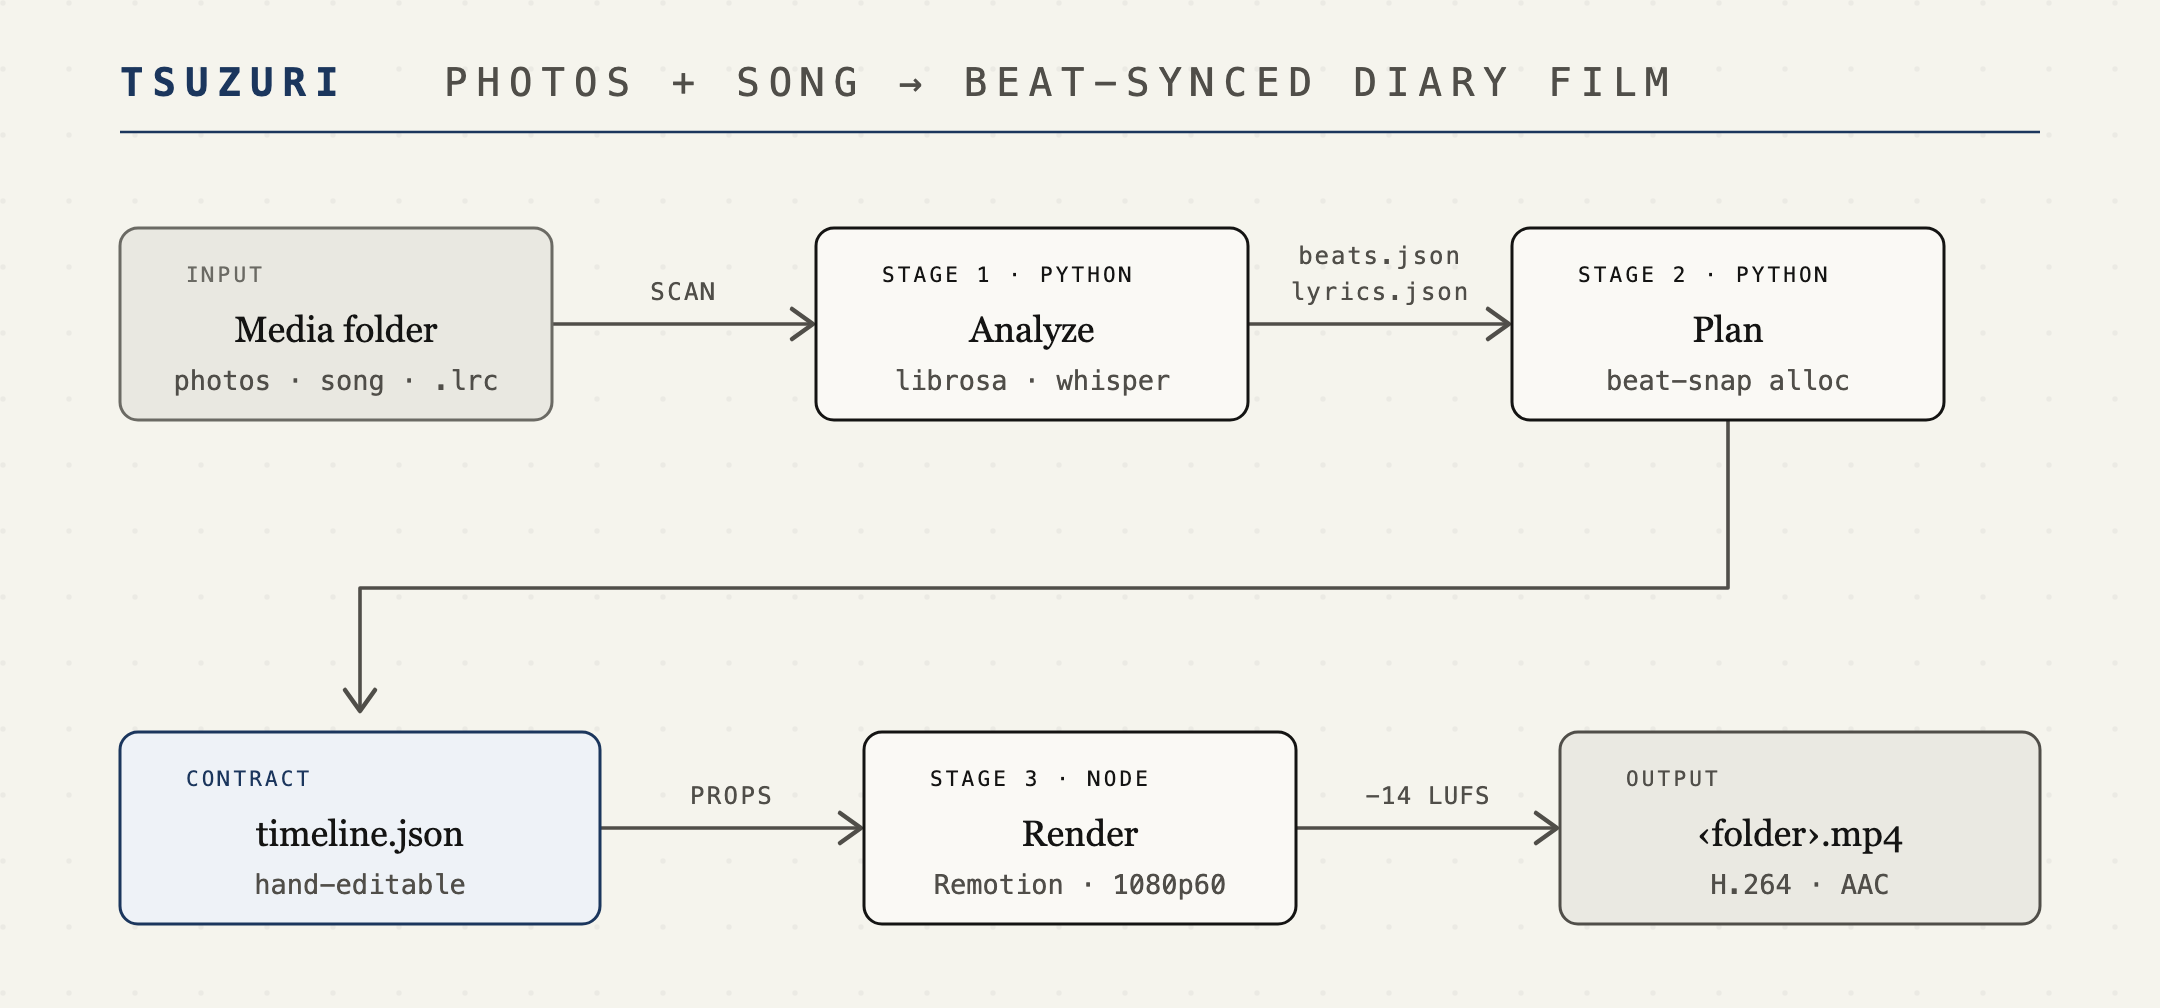
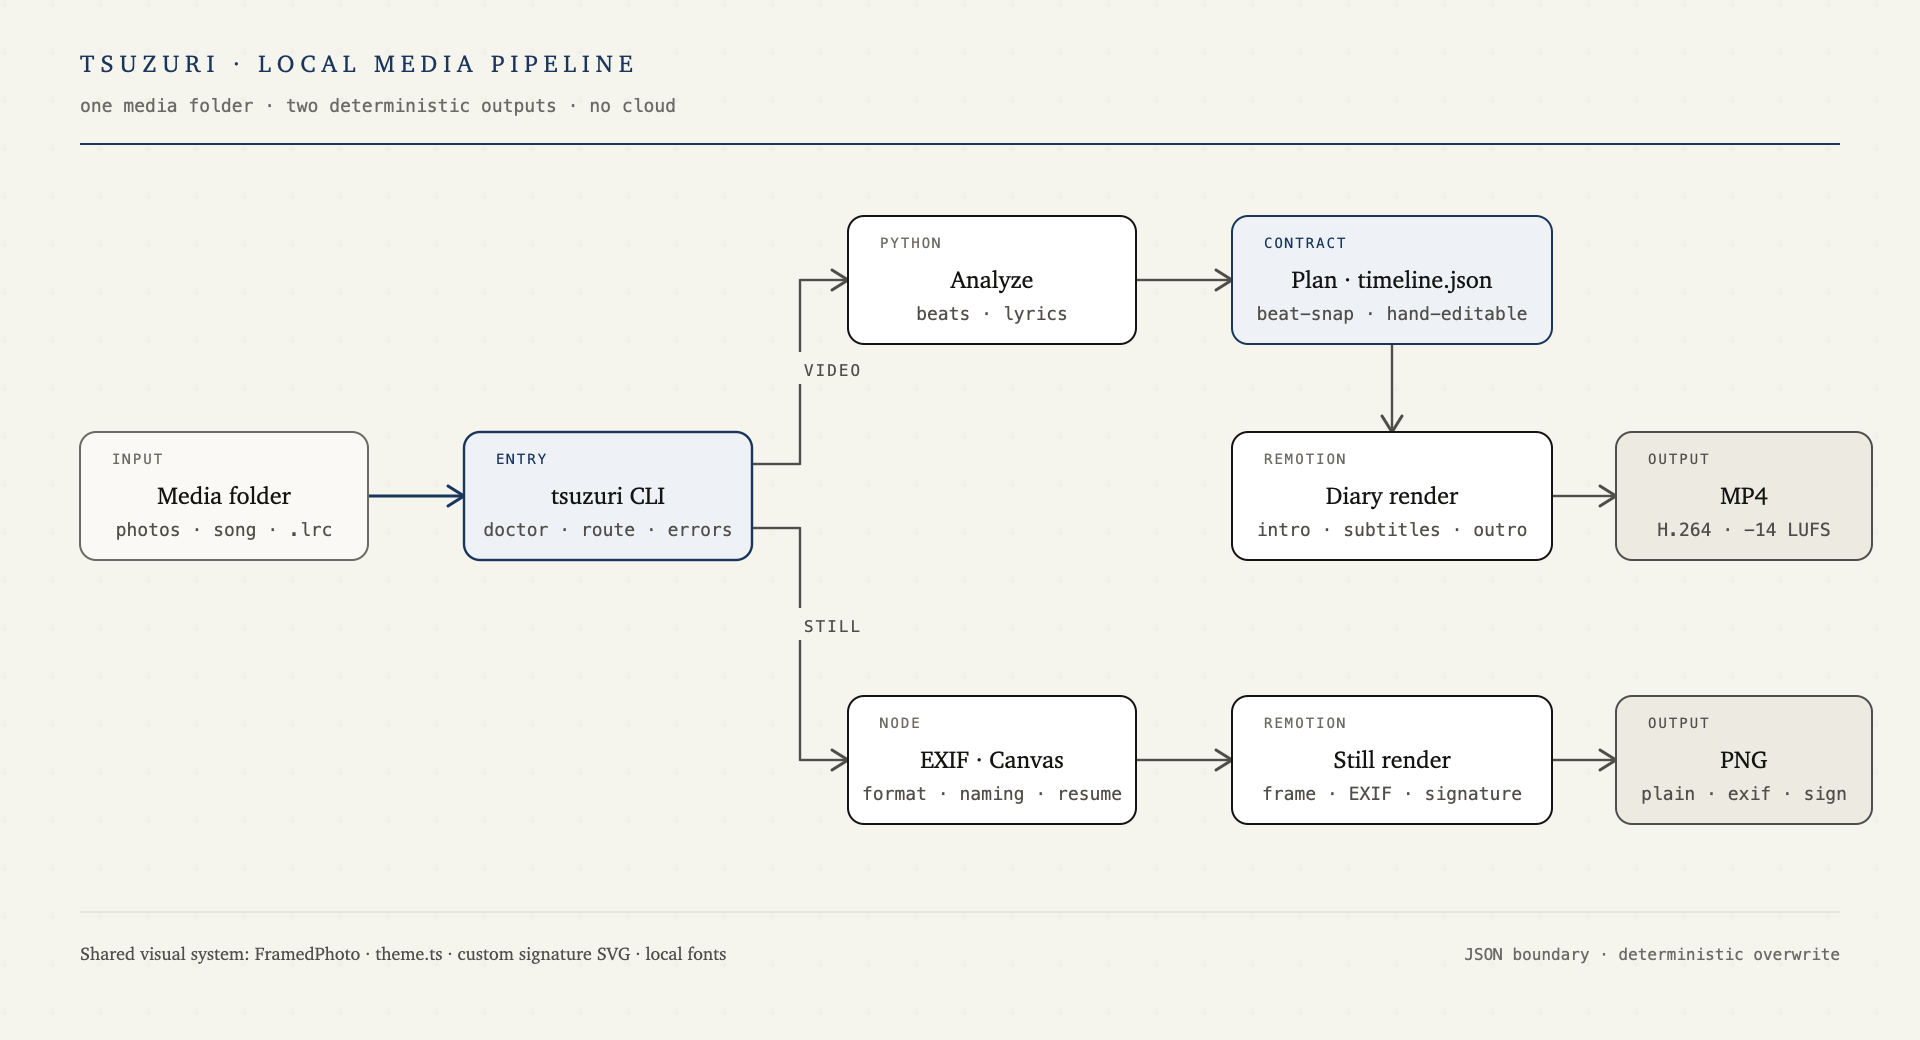
docs: README 与功能对齐,新增 still 案例图,架构图更新为双管线 PNG
- 命令速查补 --sign / --skip-existing,still 变体命名与覆盖语义入正文
- 新增两张 still 案例图(落款 / EXIF+落款),FAQ 补 TSUZURI_DEBUG
- config.md 明示配置须平铺(still 轻量读取器与 tomllib 镜像约束)
- 三份方案文档标注实施状态与最终口径,status 更新近期落地

diff --git a/docs/still-polish-and-error-ux-plan.md b/docs/still-polish-and-error-ux-plan.md
@@ -1,6 +1,6 @@
 # 执行方案:报错文案人性化 + still 命名/覆盖语义 + still 签名与 EXIF 展示优化
 
-> 状态:方案草案,未开工。承接 branding-and-still-export-plan.md 的实现,
+> 状态:已实施(2026-07-12)。承接 branding-and-still-export-plan.md 的实现,
 > 含该实现 code review 的待修项。不含代码,只定方案与步骤。
 
 ## 零、Review 待修项(来自本轮 code review)
@@ -14,12 +14,12 @@
 | R3 | `cli/still.mjs` 输出命名 | ①普通版与 `--exif` 版同名互相覆盖;②同名不同扩展名的源图(`a.jpg` + `a.webp`)在批量导出时静默互相覆盖 | 见"第二部分"命名方案 |
 | R4 | `cli/still.mjs` `-o out.jpg` | 单文件模式传非 .png 扩展名被静默改写成 `out.jpg.png` | 直接报错:"still 只导出 PNG,-o 请以 .png 结尾或传目录" |
 | R5 | `cli/still.mjs` `loadStillCanvasConfig` | 手写 flat-TOML 解析与 `plan.py` 的 tomllib 是两套解析器,`[table]`/多行字符串会静默读错(当前 config.md 只有平铺键,风险休眠) | 加镜像注释互指;config.md 明示"配置须平铺";v2 再考虑统一 |
-| R6 | `cli/still.mjs` 批量循环 | 每张都调一次 `selectComposition`,但全部 job 的画布元数据相同 | 提到循环外调一次(批量提速) |
+| R6 | `cli/still.mjs` 批量循环 | 每张都调一次 `selectComposition`,但全部 job 的画布元数据相同 | 提到循环外调一次;每次 render 必须用当前 `inputProps` 更新 `composition.props`,否则首次的 `exif:null` 会覆盖动态 EXIF |
 | R7 | `cli/still.mjs` | 进度条活跃期间用 `term.detail` 打印输出路径,可能与进度行交错 | 改用 `progress.println`(render.mjs 已有先例) |
 
 Review 通过项(不动):hooks 顺序安全;老 timeline 无 `branding` 字段的向后
 兼容;`intro=false` 的 plan/渲染两端联动与测试;`FramedPhoto` 抽取;
-exif 格式化函数与测试;三套验证(cli 39 test / typecheck / analyzer 75 test)全绿。
+exif 格式化函数与测试;最终验证(cli 46 test / typecheck / analyzer 75 test)全绿。
 
 ---
 
@@ -121,13 +121,13 @@ EXIF 开了都不会刷新,同一类 bug。
 
 - **默认永远覆盖**——still 是显式动作,"我要现在这份视觉的结果",确定性
   高于省时间;单张秒级,成本可接受。
-- **变体分离命名**,让"普通版"和"EXIF 版"根本不竞争同一个文件:
-  - 无 exif:`IMG_001.png`
-  - 带 exif:`IMG_001.exif.png`
-  - (将来带签名可归入同名不加后缀——签名属于"这份导出的装饰",不是另一
-    个变体;见第三部分)
-- **同名冲突消歧**:resolveJobs 后按 outPath 分组,冲突的 job 自动改为带原
-  扩展名的 `a.webp.png` 并 `term.warn` 一行;不报错中断(批量导出体验优先)。
+- **变体分离命名**,扩展名始终只有 `.png`,四种结果可在同一目录共存:
+  - 普通:`IMG_001.png`
+  - EXIF:`IMG_001-exif.png`
+  - 签名:`IMG_001-sign.png`
+  - EXIF + 签名:`IMG_001-exif-sign.png`
+- **同名冲突消歧**:resolveJobs 后按 outPath 分组,冲突的 job 自动把原扩展名
+  并入 basename,如 `a-jpg.png` / `a-webp.png`,并 `term.warn` 一行;不报错中断。
 - **`--skip-existing` 显式选项**(批量续跑场景):明示跳过并输出
   `└ 跳过 N 张已存在(--skip-existing)`;默认关。陈旧风险由"显式打开 +
   明示计数"兜住——用户主动要的跳过,和静默缓存不是一回事。
@@ -139,8 +139,8 @@ EXIF 开了都不会刷新,同一类 bug。
    (jpg/webp 同名、exif 与普通并存、`-o out.jpg` 报错)。
 7. **`--skip-existing`**:options.mjs 解析 + still.mjs 跳过逻辑 + 计数输出;
    补测试。
-8. **顺手修 R6/R7**:`selectComposition` 提到循环外;路径打印改
-   `progress.println`。
+8. **顺手修 R6/R7**:`selectComposition` 提到循环外,render 时以当前 job 的
+   `inputProps` 覆盖 `composition.props`;路径打印改 `progress.println`。
 
 ---
 
@@ -166,7 +166,7 @@ alias 里带上即可,v2 若呼声高再考虑 toml 键)。
 
 推荐参数(1080p 基准,进 `theme.ts` STILL 常量,Studio 里微调):photo_scale
 0.8 时下带高 108px,签名字形高取 **~56px**、垂直居中于下带;颜色用 INTRO
-的墨色但透明度降到 **~0.5**(落款应比作品轻)。注意竖图时下带不变(照片按
+的墨色 `#37332D`,实测后透明度定为 **0.65**(清晰但仍低于正文层级)。注意竖图时下带不变(照片按
 高度顶满),横图很宽时照片按宽度限制、下带会变高——签名仍锚定"照片下缘
 到画布底"的实际间隙居中,而不是固定坐标。
 
@@ -210,11 +210,11 @@ ISO 200
 
 - **a. camera / lens / params 至少一项存在** → 正常出展签,缺行省略
   (现状已如此)。
-- **b. 只剩 datetime** → **不出侧面板**,按无 EXIF 布局导出,并 warn:
-  `└ IMG_x.jpg: EXIF 只有时间字段,不足以出展签,已按无信息布局导出`。
+- **b. 只剩 datetime** → **跳过 EXIF 变体导出**,并 warn:
+  `└ IMG_x.jpg: EXIF 信息不足,已跳过导出`。EXIF 命令不生成名不副实的普通布局文件。
   孤零零一行时间的面板视觉是破的;且转存图的时间常是"保存时间"而非
   拍摄时间,展示反而误导。
-- **c. 全空** → 现状(warn + 回退)已正确,文案统一成 b 的句式。
+- **c. 全空** → 同 b,提示并跳过。
 - **明确不做**:不用文件 mtime 兜底"拍摄时间"——微信保存时间没有意义,
   宁缺毋滥。
 
@@ -250,8 +250,8 @@ ISO 200
 - 报错文案手工触发矩阵:临时改 PATH 去掉 uv / ffmpeg 各跑一次;
   `tsuzuri photo.jpg`;`tsuzuri still x.txt`;`-o out.jpg`;删 beats.json 后
   直接跑 plan。
-- still 语义:同一张图 ①普通 ②--exif ③再普通,确认三次后 `IMG.png` 与
-  `IMG.exif.png` 并存且内容对应;`a.jpg`+`a.webp` 批量冲突消歧 warn;
+- still 语义:同一张图四种组合导出后 `IMG.png` / `IMG-exif.png` /
+  `IMG-sign.png` / `IMG-exif-sign.png` 并存且内容对应;`a.jpg`+`a.webp` 批量冲突消歧 warn;
   `--skip-existing` 计数正确。
 - 视觉:Studio 目检四种组合(±exif × ±sign)+ 竖图/横图/全景各一张;
   微信转存图(datetime-only)走 b 分支。

diff --git a/README.en.md b/README.en.md
@@ -44,7 +44,7 @@ Drop a `tsuzuri.toml` in the folder to override defaults (resolution / fps / tra
 
 ## How it works
 
-![tsuzuri pipeline](docs/assets/architecture.svg)
+![tsuzuri dual pipeline: video and still outputs share one local visual system](docs/assets/architecture.png)
 
 Analyze / Plan / Render are three independent stages that only talk through JSON files under `metadata/`. `timeline.json` is the hand-editable contract (schema: [docs/specs/timeline-schema.md](docs/specs/timeline-schema.md)); rerunning with unchanged material skips analysis and renders your edited timeline directly.
 
@@ -74,6 +74,8 @@ node cli/tsuzuri.mjs ./osaka-trip               # render video
 node cli/tsuzuri.mjs ./osaka-trip -o out.mp4    # custom output path
 node cli/tsuzuri.mjs still ./photo.jpg          # export a still PNG (same look as the video, default 2× supersample)
 node cli/tsuzuri.mjs still ./photos --exif      # batch + EXIF caption panel
+node cli/tsuzuri.mjs still ./photos --sign      # add the same signature used by the video intro
+node cli/tsuzuri.mjs still ./photos --skip-existing # explicitly resume a batch
 node cli/tsuzuri.mjs doctor                     # dependency preflight with fix hints
 node cli/tsuzuri.mjs lyrics ./osaka-trip        # preview lyric recognition before rendering
 node cli/tsuzuri.mjs help                       # usage (same as -h / --help)
@@ -81,7 +83,13 @@ node cli/tsuzuri.mjs help                       # usage (same as -h / --help)
 
 `lyrics` lists every line with timestamps and confidence; lines below the render threshold (0.6) are flagged — check recognition quality before spending minutes on a render.
 
-`still` is a pure Node pipeline (no audio analysis). It writes lossless PNG; default `--scale 2` (3840×2160 supersample). Optional `--exif` adds camera / lens / exposure / datetime (never GPS).
+`still` is a pure Node pipeline (no audio analysis). It writes lossless PNG; default `--scale 2` (3840×2160 supersample). Its four variants are named `IMG.png` / `IMG-exif.png` / `IMG-sign.png` / `IMG-exif-sign.png`, so they can coexist in one directory. Photos without enough EXIF are reported and skipped for EXIF variants. Existing files are overwritten by default; `--skip-existing` is an explicit batch-resume mode.
+
+### Still cases
+
+| No EXIF · signature below photo | EXIF · signature inside caption panel |
+| --- | --- |
+| ![Without EXIF, the signature sits below the photo](docs/assets/still-sign-case.png) | ![With EXIF, the signature sits at the bottom of the caption panel](docs/assets/still-exif-sign-case.png) |
 
 ## 100% local
 
@@ -98,6 +106,8 @@ No cloud, no API keys. The Whisper backend matches your hardware automatically (
 **Weak vocals, bad recognition?** `cd analyzer && uv sync --extra separation` installs demucs; on low confidence the analyzer separates vocals and retries once automatically.
 
 **Rendering is slow, fans are loud?** Expected: frame-by-frame 60fps rendering plus H.264 encoding is CPU-bound. If 30fps is acceptable, set `fps = 30` in `tsuzuri.toml` — roughly halves the time.
+
+**Need the full stack trace?** Rerun with `TSUZURI_DEBUG=1`; for missing dependencies, start with `node cli/tsuzuri.mjs doctor`.
 
 **Different Whisper model?** Set `TSUZURI_WHISPER_MODEL=tiny|small|medium` (or a local model directory path) before running.
 

diff --git a/README.md b/README.md
@@ -46,7 +46,7 @@ node cli/tsuzuri.mjs ./osaka-trip
 
 ## How it works / 工作原理
 
-![tsuzuri pipeline](docs/assets/architecture.svg)
+![tsuzuri 双管线架构:视频与 still 共用本地视觉系统](docs/assets/architecture.png)
 
 Analyze / Plan / Render 三个阶段彼此独立,只通过 `metadata/` 下的 JSON 文件衔接;`timeline.json` 是可手改的契约(schema 见 [docs/specs/timeline-schema.md](docs/specs/timeline-schema.md)),素材未变时重跑会跳过分析、直接按改后的时间线渲染。
 
@@ -76,6 +76,8 @@ node cli/tsuzuri.mjs ./osaka-trip               # 渲染成片(日常命令)
 node cli/tsuzuri.mjs ./osaka-trip -o out.mp4    # 自定义输出路径
 node cli/tsuzuri.mjs still ./photo.jpg          # 按视频同款视觉导出 PNG(默认 2× 超采样)
 node cli/tsuzuri.mjs still ./photos --exif      # 批量 + EXIF 展签面板
+node cli/tsuzuri.mjs still ./photos --sign      # 加入 toml 同源签名落款
+node cli/tsuzuri.mjs still ./photos --skip-existing # 批量续跑,显式跳过已存在文件
 node cli/tsuzuri.mjs doctor                     # 预检依赖,失败项附修复命令
 node cli/tsuzuri.mjs lyrics ./osaka-trip        # 渲染前预览歌词识别结果
 node cli/tsuzuri.mjs help                       # 查看用法(同 -h / --help)
@@ -83,7 +85,13 @@ node cli/tsuzuri.mjs help                       # 查看用法(同 -h / --help)
 
 `lyrics` 会列出每行的时间戳与置信度,低于渲染阈值(0.6)的行会标出——先确认识别质量,再花时间渲染。
 
-`still` 是纯 Node 管道(不跑音频分析),输出无损 PNG;默认 `--scale 2`(3840×2160 超采样),可选 `--exif` 叠加相机/镜头/参数/时间(不含 GPS)。单张默认写到照片旁 `output/stills/`,文件夹则批量导出。
+`still` 是纯 Node 管道(不跑音频分析),输出无损 PNG;默认 `--scale 2`(3840×2160 超采样)。四种变体分别命名为 `IMG.png` / `IMG-exif.png` / `IMG-sign.png` / `IMG-exif-sign.png`,可在同一目录共存。没有足够 EXIF 的照片会提示并跳过 EXIF 变体。批量续跑可显式使用 `--skip-existing`;默认总是覆盖已有同变体文件。
+
+### Still cases / 静态作品案例
+
+| 无 EXIF · 照片下方落款 | EXIF · 展签面板内落款 |
+| --- | --- |
+| ![无 EXIF 时签名位于照片下方留白](docs/assets/still-sign-case.png) | ![有 EXIF 时签名位于展签面板底部](docs/assets/still-exif-sign-case.png) |
 
 ## 100% local / 完全本地
 
@@ -100,6 +108,8 @@ node cli/tsuzuri.mjs help                       # 查看用法(同 -h / --help)
 **人声弱、识别很差?** `cd analyzer && uv sync --extra separation` 安装 demucs,低置信度时会自动人声分离后重识别一次。
 
 **渲染慢、风扇响?** 正常:60fps 逐帧渲染 + H.264 编码本就吃 CPU。接受 30fps 的话在 `tsuzuri.toml` 设 `fps = 30`,耗时近似减半。
+
+**需要完整错误栈排查?** 设置 `TSUZURI_DEBUG=1` 后重跑;依赖问题先运行 `node cli/tsuzuri.mjs doctor`。
 
 **想换 Whisper 模型?** 运行前设 `TSUZURI_WHISPER_MODEL=tiny|small|medium`(或本地模型目录路径)。
 

diff --git a/docs/tsuzuri-status.md b/docs/tsuzuri-status.md
@@ -16,8 +16,8 @@
 
 ## 近期落地(2026-07-12)
 
-- **片头/片尾个性化(配置驱动)**:`tsuzuri.toml` 新增 `outro_text` / `signature` / `intro` → `plan.py` 写入 `meta.branding` → 渲染器消费。谢幕语抽为 `Outro.tsx`;自定义签名 SVG 运行时 `getTotalLength()` 测长(delayRender),多 path 并行书写,默认路径仍用常量 2109.58 保证逐帧一致;`intro=false` 时 plan 不预留片头、渲染器不挂 Intro。
-- **`tsuzuri still`**:纯 Node + `renderStill` PNG,默认 `--scale 2`;可选 `--exif`(exifr 在 CLI 格式化四行)。`FramedPhoto` 从 Photo 抽出,与 Still composition 共用。方案见 [branding-and-still-export-plan.md](./branding-and-still-export-plan.md)。
+- **片头/片尾个性化(配置驱动)**:`tsuzuri.toml` 新增 `outro_text` / `signature` / `intro`;plan 只透传显式配置,展示默认值单一来源留在渲染器。自定义签名 SVG 运行时测长,cleanup 会释放 pending delayRender handle;`intro=false` 时 plan 不预留片头、渲染器不挂 Intro。
+- **`tsuzuri still`**:纯 Node + `renderStill` PNG,默认 `--scale 2`;支持 `--exif` 四行展签、`--sign` 落款和显式 `--skip-existing`。四种变体以 `-exif` / `-sign` 文件名段分离,扩展名始终为 `.png`;批量同 stem 自动把源扩展名并入 basename 消歧。方案见 [still-polish-and-error-ux-plan.md](./still-polish-and-error-ux-plan.md)。
 
 ## 关键决策(计划文档之外新增)
 
@@ -40,7 +40,7 @@
 - Windows:代码层面兼容(faster-whisper CPU/CUDA 路径、npx 坑已修 9e09165),未真机实测;最可能的坑:CJK/空格路径、demucs 的 torch 安装。
 - M5 剩余:快闪/裁剪阈值用真实素材调优;examples 目前只有生成的 fixture,可补一组真实示例照片 + 无版权音乐。
 - Whisper 模型可用 `TSUZURI_WHISPER_MODEL=tiny|small|medium` 临时覆盖(调试用)。
-- Review 遗留(advisory,未修):EXIF 排序是全有全无策略;信息条(INFO_BAR)常量已定义但渲染未实现(默认关,M6);HF 连通性探测用 urllib,SOCKS-only 环境会误切镜像(镜像可用,无害)。
+- Review 遗留(advisory,未修):EXIF 排序是全有全无策略;信息条(INFO_BAR)常量已定义但视频渲染未实现(默认关,M6);HF 连通性探测用 urllib,SOCKS-only 环境会误切镜像(镜像可用,无害)。
 - beat_alloc 约束优先级:所有间隔约束 > 切换点数量,塞不下时丢弃尾部照片(2026-07-10 review 修复了回退分支违反 min_gap 的 bug)。
 - 歌词长段按词级时间戳拆行(上限 30 全角等效),断点优先乐句边界:词间停顿 ≥0.3s / 下一词大写开头(排除恒大写 "I")/ 标点收尾;渲染端另有超宽缩字号兜底。
 - 成片响度归一:CLI 渲染后用 ffmpeg loudnorm 两遍法(linear=true 纯增益)统一到 -14 LUFS / TP -1.5dB,源已达标(±1 LU 且 TP ≤ -1)则跳过;视频流 copy 不重编码。
@@ -54,9 +54,9 @@
 - 本机环境有 SOCKS 代理,已加 `httpx[socks]` 依赖(顺带惠及代理用户)。
 - 视觉规格第五次修订(2026-07-11):照片阴影从暖棕改为中性冷黑三层(`rgba(10,12,16,…)`,α 0.32/0.28/0.18,垂直入光),白底上不再偏黄;描边同步中性化。渲染质量:中间帧 `jpegQuality: 100`、输出 `crf: 16`(此前走 Remotion 默认 80/18);音频仍为 AAC 320k 默认。
 - CLI 子命令(2026-07-11):新增 `tsuzuri doctor`(秒级预检 node/uv/ffmpeg/渲染器依赖,analyzer venv 仅提示;不联网、不触发 uv sync)与 `tsuzuri lyrics <folder>`(analyzer 新增 `--lyrics-only`,跳过节拍分析仅识别歌词,LRC 分支用 `librosa.get_duration` 取时长;终端预览含置信度,<0.6 标记为不会渲染)。路由规则:首 token 恰为 `doctor`/`lyrics` 即子命令,路径前缀(`./lyrics`)转义;日常命令 `tsuzuri <folder>` 行为不变。CLI 测试 15→27,analyzer 39→41。
-- README 重写(2026-07-11):标语纳入歌词;去除全文中英双份句(标题双语 + 正文中文);新增 kami 风格架构图 `docs/assets/architecture.svg` 与 Showcase 截图占位(待用户提供);LRC/目录约定折叠进 `<details>`;辅助命令单列一节。
+- README 重写(2026-07-11,架构图于 2026-07-12 更新):标语纳入歌词;去除全文中英双份句(标题双语 + 正文中文);Kami 风格 PNG 架构图现覆盖视频与 still 双管线,README 预留 EXIF / EXIF+签名案例位;LRC/目录约定折叠进 `<details>`;辅助命令单列一节。
 - 片头片尾(2026-07-11,替代右下角常驻签名):片头 = 白画布居中"写"签名——虚线偏移描字(stroke-dasharray = 路径总长 2109.58,dashoffset 逐帧从总长插值到 0,笔迹沿真实轮廓画出),1.4s 描字 + 0.35s 上墨(fillOpacity 淡入)+ 0.4s 停留 + 0.5s 卡片淡出;第一张照片可见时长不足自动跳过。⚠ 两个实测踩坑:CSS animation 在 Remotion 不可用(须 useCurrentFrame 逐帧驱动);Chrome/WebKit 对多子路径 <path> 设置 pathLength 归一化会**整体禁用虚线**,必须用真实路径长度(getTotalLength 在渲染用 chrome-headless-shell 实测,硬编码为常量)。片尾 = "Thanks for watching :)" 沿用字幕题签样式(Noto Serif 36px/500/0.12em)随白场过半淡入;Sacramento 字体随之移除(git 历史可找回)。ANIMATION 拆分:audioFadeDuration 1.5s / whiteFadeDuration 2.5s(白场更长给谢幕语留时间,音频淡出不变)。Signature.tsx 改纯展示组件(viewBox 内聚,定位配色由使用方给)。
-- 个人签名落款(2026-07-11):Sacramento 手写 SVG 转实心路径内联为 Signature.tsx(方案 A,渲染器内置),常驻右下角(1080p 基准高 56px、边距 48px、#8F8C85 80% 透明),层级在片尾白场之上——淡白后落款保留。SVG 原件字形 bbox 为 viewBox "2 2 320 129"(宽高比 2.5:1);注意 qlmanage 预览该文件会几何失真,勿以缩略图判断比例。
+- 个人签名落款(2026-07-11,后续方案已替代常驻右下角):Sacramento 手写 SVG 转实心路径内联为 Signature.tsx(方案 A,渲染器内置)。视频中作为片头书写;still 由 `--sign` 显式开启——无 EXIF 时位于照片下方留白中央,有 EXIF 时位于展签底部,使用 `#37332D` / 0.65 opacity。SVG 字形 bbox 为 viewBox "2 2 320 129"(宽高比 2.5:1)。
 - 开源与文档完善(2026-07-11):代码 MIT(字体 OFL 1.1 并行,fonts/OFL.txt 已在库);README 增安装指引(brew 一行,不套娃)、首跑预期(模型下载体积 + 渲染耗时)、平台声明(仅 macOS/Apple Silicon 实测)、FAQ 六条、License 节;新增 docs/config.md(tsuzuri.toml 全量参考)与 README.en.md;whisper_backend 在触发 HF 下载前打印模型体积预期。模型不入库:GitHub 100MB 上限 + models/ 约定目录已覆盖离线场景。CLAUDE.md/AGENTS.md 移出版本库。
 - 片头/片尾配时预留(2026-07-11):plan.py 新增常量镜像 INTRO_DURATION=2.65 / WHITE_FADE_DURATION=2.5 / MIN_PHOTO_VISIBLE=0.8(与 renderer/src/theme.ts、Intro.tsx 双向注释互指,任一侧改动需同步)。非快闪且 duration>=5.95s 时预留片头:beat_alloc.allocate_switch_points 新增 head_offset(理想网格整体右移,0 时行为逐位不变,56 条既有测试回归确认)把首张照片的可见时长拉平到与其余照片相当,并把 not_before 抬高到 3.45s 兜底(该值经既有 usable 过滤 + fallback 逻辑天然保证下界,无需额外硬编码分支)。任何时长都尝试给末张照片预留 not_after(片尾白场前 ≥0.8s 不透明可见),取 max(网格自身理想末位, 该下界)——绝不比均分网格更早,与 min_gap 冲突时 min_gap 胜出(不为保尾丢照片)。不变式(plan 预留 ⟺ 渲染端 showIntro 判定为真)已用 test_plan_head_tail_reserve.py 的独立 Python 复刻函数覆盖。examples/fixture/timeline.json(Studio 预览用静态文件)未随之重新生成,如需体现新配时需手动重跑。
   - **审查发现并修复(Codex 定向复核 + deep-reasoner 独立复核)**:n==2 时头尾两个约束落在同一个(唯一的)切换点上,原用通用门槛 5.95s 会在 duration ∈ [5.95, 6.75) 的窄窗口内(该点必须同时 ≥3.45 且 ≤duration−3.3,但窗口宽度不足)因找不到候选而被 `t > duration - min_gap: break` 整体丢弃、误删第二张照片(已用脚本复现:D=5.95,n=2,原逻辑丢照片;修复后保留)。修复:n==2 时预留门槛抬高到 SHOW_INTRO_MIN_T+MIN_PHOTO_VISIBLE=6.75s(n>=3 时头尾分属不同切换点,门槛不变)。同时改掉两个空验证测试:`test_avg_boundary_at_two_seconds_is_non_flash` 原是重言式(`X==X` 恒真);`test_last_photo_has_opaque_tail_before_white_fade` 原场景理想末位天然早于白场起点,not_after 从未真正生效——现用手工构造的候选(唯一候选 11.0 距理想位 8.325 在吸附范围内但会把尾部压到 3.0s<3.3s 目标)证明该候选确实被排除。analyzer 测试 56→59。

diff --git a/docs/config.md b/docs/config.md
@@ -2,7 +2,7 @@
 
 在素材文件夹根目录放一份 `tsuzuri.toml` 即可覆盖默认值。该文件计入 input hash:改动配置后重跑会自动重新分析和规划,无需手动清缓存。
 
-未知配置键会在终端警告后忽略;`motion` / `kenburns_from` / `kenburns_to` 已弃用(照片保持静止展示)。
+配置必须使用顶层平铺的 `key = value` 形式,不要使用 `[table]` 或多行字符串(still 的轻量读取器与 analyzer 的 tomllib 共同遵守此约束)。未知配置键会在终端警告后忽略;`motion` / `kenburns_from` / `kenburns_to` 已弃用(照片保持静止展示)。
 
 ## 画布与输出
 
@@ -36,13 +36,15 @@
 
 ## 片头 / 片尾(branding)
 
-写入 `timeline.json` 的 `meta.branding`;不配置时与内置默认逐帧一致。
+仅显式配置的键写入 `timeline.json` 的 `meta.branding`;不配置时由渲染器内置默认值负责,避免两份默认文案漂移。
 
 | 键 | 默认值 | 说明 |
 | --- | --- | --- |
 | `outro_text` | `"Thanks for watching :)"` | 片尾谢幕语;设为 `""` 隐藏文案(片尾白场时长不变) |
 | `signature` | *(内置)* | 素材文件夹内的签名 SVG 相对路径;缺省用内置 Sacramento 手写签名 |
 | `intro` | `true` | 片头总开关;`false` 时 plan 不预留片头时长,渲染器不挂载片头 |
+
+`signature` 同时供视频片头与 `tsuzuri still --sign` 使用:无 EXIF 时落款位于照片下方留白,有 EXIF 时位于展签面板底部。`--sign` 是 still 的显式开关,不写入 toml。
 
 ### 自定义签名 SVG 约束
 

diff --git a/docs/tsuzuri-implementation-plan.md b/docs/tsuzuri-implementation-plan.md
@@ -1,5 +1,7 @@
 # tsuzuri(綴り)— 实现方案
 
+> 本文记录初始视频管线实施基线。已落地的 branding 与 still 双管线增量分别见 [branding-and-still-export-plan.md](./branding-and-still-export-plan.md) 和 [still-polish-and-error-ux-plan.md](./still-polish-and-error-ux-plan.md);当前对外用法以 README 为准。
+
 > **tsuzuri(綴り)** — Turn photos and a song into a beat-synced visual diary. Fully local: beat detection, smart cut planning, lyric transcription, and a clean white-canvas 16:9 render with gallery-style captions — one command, no editor.
 >
 > 把照片和一首歌缀成踩点影像日记:本地节拍分析、智能规划切换、歌词识别、画册式字幕,一条命令导出成片,无需剪辑软件。